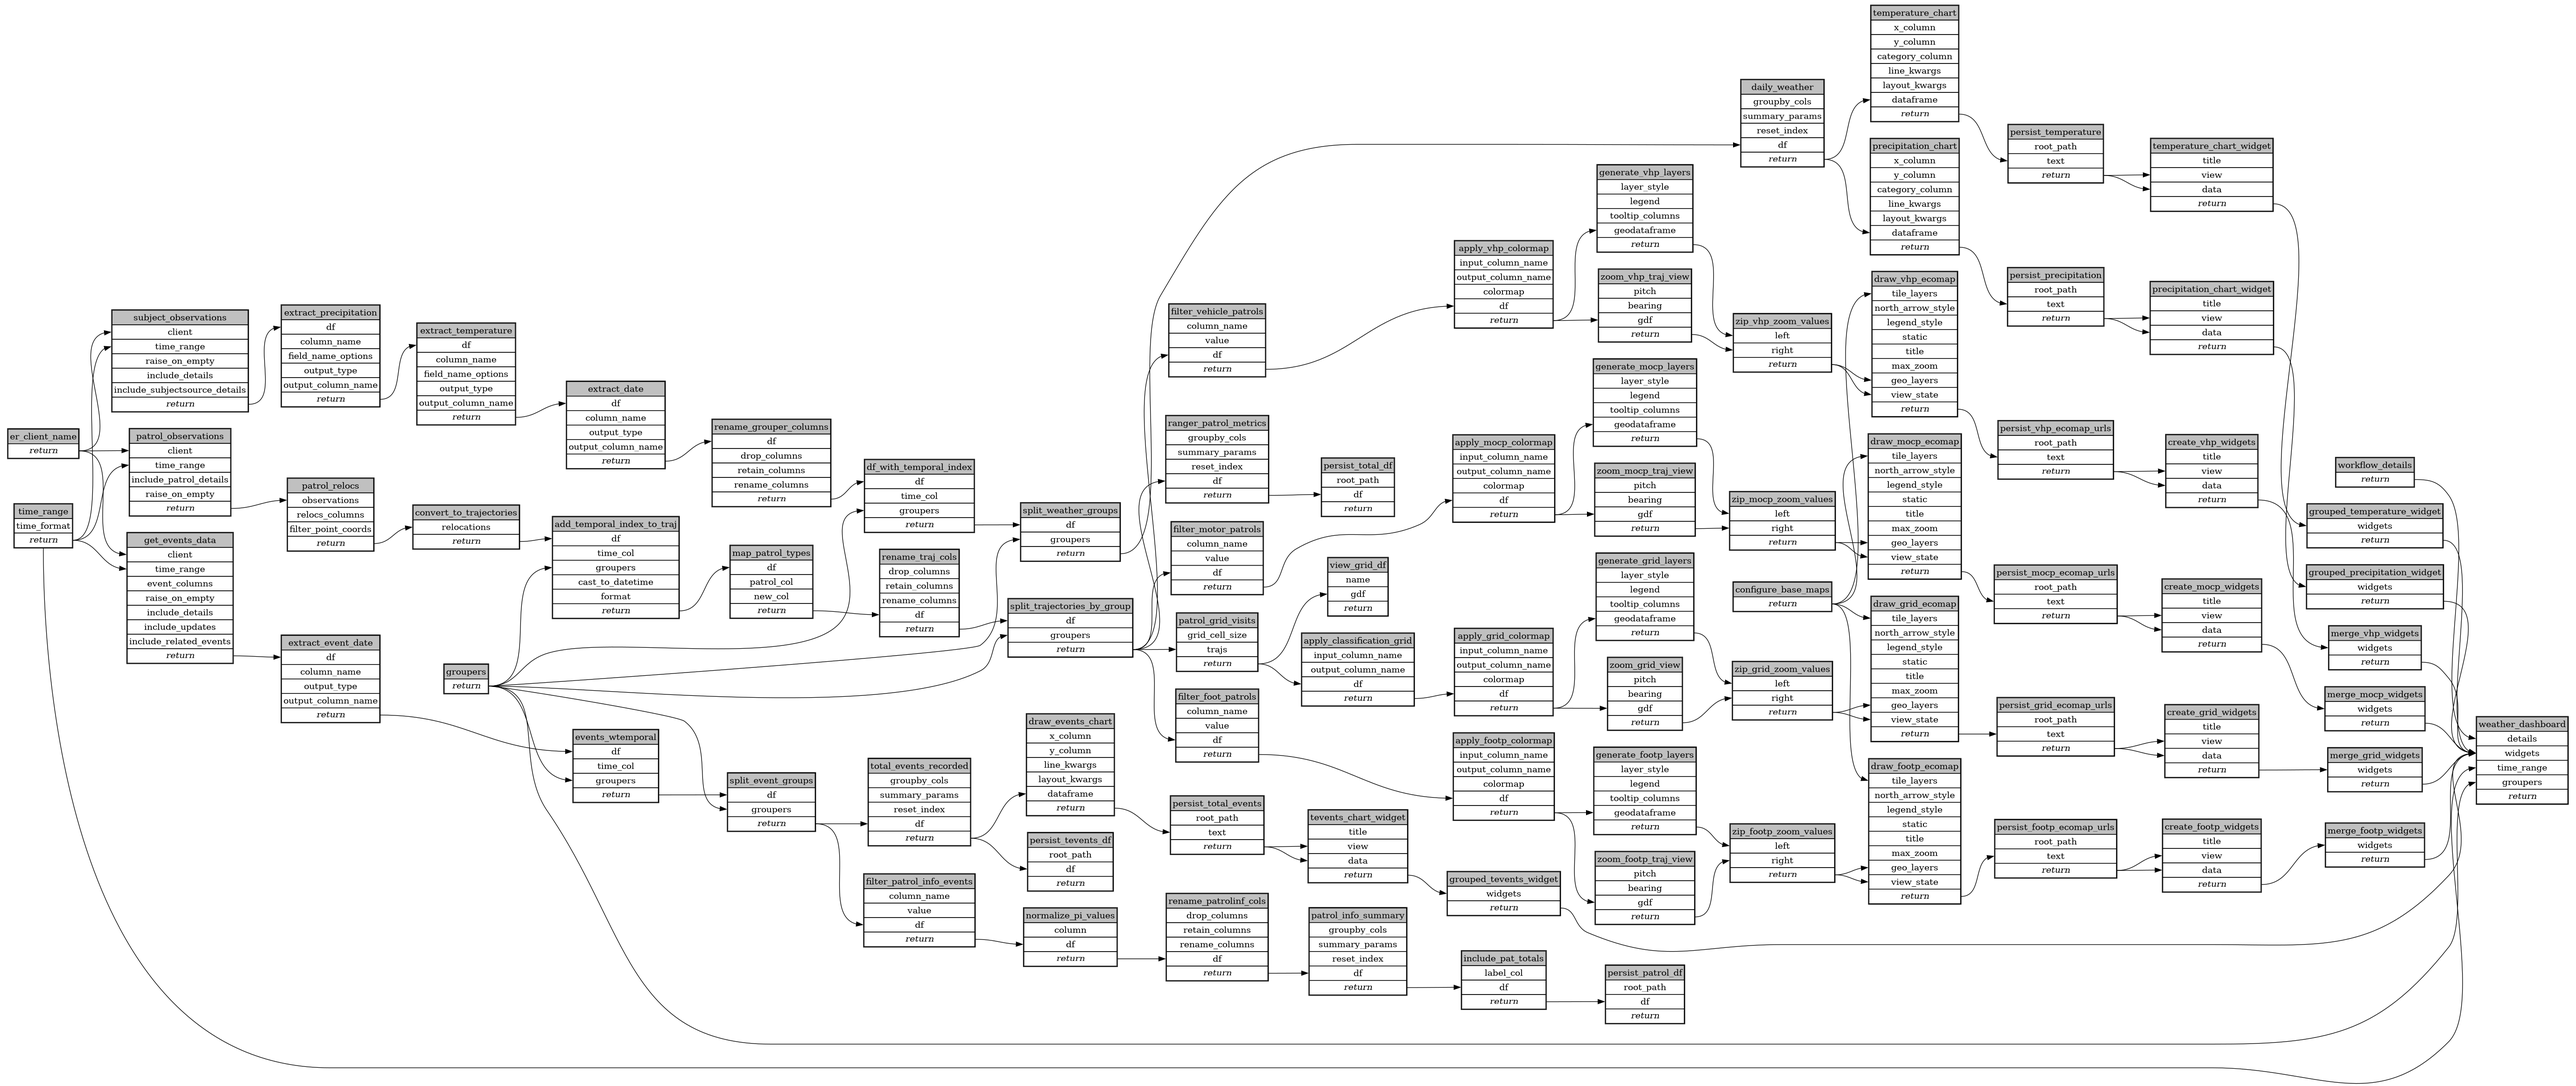
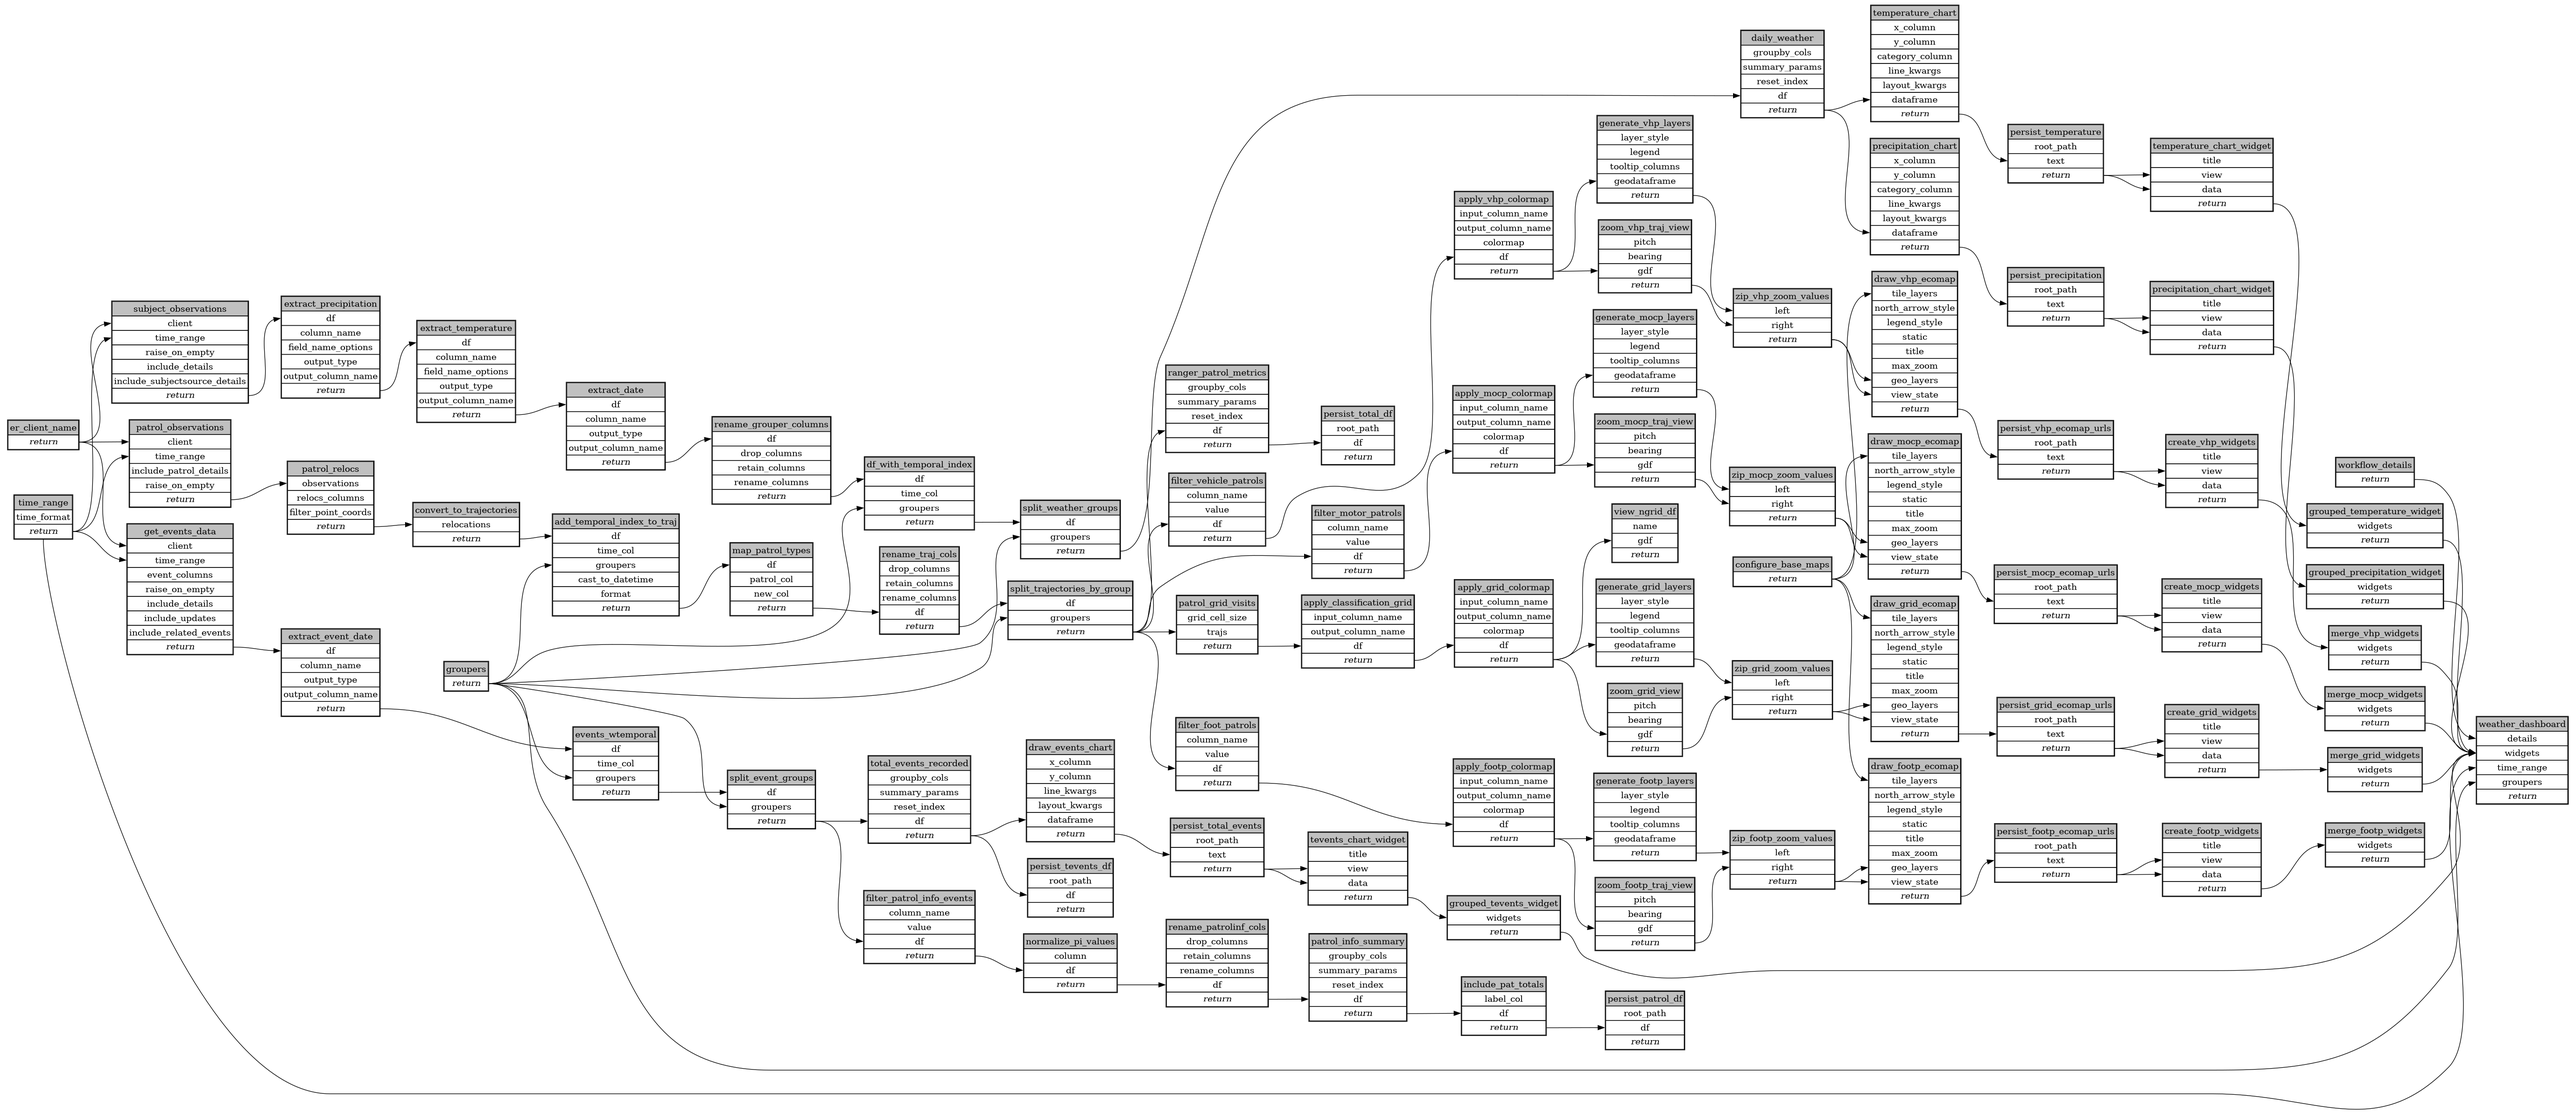
exclude missing values on generate_grid_layers spec func

Changed region(s): [[0.0, 0.0, 0.9973, 0.9592]]

diff --git a/workflows/customized_report/ecoscope-workflows-customized-report-workflow/ecoscope_workflows_customized_report_workflow/dags/run_async.py b/workflows/customized_report/ecoscope-workflows-customized-report-workflow/ecoscope_workflows_customized_report_workflow/dags/run_async.py
@@ -130,9 +130,9 @@ def main(params: Params):
         "create_mocp_widgets": ["persist_mocp_ecomap_urls"],
         "merge_mocp_widgets": ["create_mocp_widgets"],
         "patrol_grid_visits": ["split_trajectories_by_group"],
-        "view_grid_df": ["patrol_grid_visits"],
         "apply_classification_grid": ["patrol_grid_visits"],
         "apply_grid_colormap": ["apply_classification_grid"],
+        "view_ngrid_df": ["apply_grid_colormap"],
         "generate_grid_layers": ["apply_grid_colormap"],
         "zoom_grid_view": ["apply_grid_colormap"],
         "zip_grid_zoom_values": ["generate_grid_layers", "zoom_grid_view"],
@@ -1226,20 +1226,6 @@ def main(params: Params):
                 "argvalues": DependsOn("split_trajectories_by_group"),
             },
         ),
-        "view_grid_df": Node(
-            async_task=view_df.validate()
-            .handle_errors(task_instance_id="view_grid_df")
-            .set_executor("lithops"),
-            partial={
-                "name": "Patrol Grid gdf",
-            }
-            | (params_dict.get("view_grid_df") or {}),
-            method="mapvalues",
-            kwargs={
-                "argnames": ["gdf"],
-                "argvalues": DependsOn("patrol_grid_visits"),
-            },
-        ),
         "apply_classification_grid": Node(
             async_task=apply_classification.validate()
             .handle_errors(task_instance_id="apply_classification_grid")
@@ -1271,6 +1257,20 @@ def main(params: Params):
                 "argvalues": DependsOn("apply_classification_grid"),
             },
         ),
+        "view_ngrid_df": Node(
+            async_task=view_df.validate()
+            .handle_errors(task_instance_id="view_ngrid_df")
+            .set_executor("lithops"),
+            partial={
+                "name": "Patrol colormap grid",
+            }
+            | (params_dict.get("view_ngrid_df") or {}),
+            method="mapvalues",
+            kwargs={
+                "argnames": ["gdf"],
+                "argvalues": DependsOn("apply_grid_colormap"),
+            },
+        ),
         "generate_grid_layers": Node(
             async_task=create_polygon_layer.validate()
             .handle_errors(task_instance_id="generate_grid_layers")
@@ -1292,7 +1292,6 @@ def main(params: Params):
                     "density_bins",
                     "density_colormap",
                     "geometry",
-                    "patrol_id",
                     "dist_meters",
                     "timespan_seconds",
                 ],

diff --git a/workflows/customized_report/ecoscope-workflows-customized-report-workflow/ecoscope_workflows_customized_report_workflow/dags/run_async_mock_io.py b/workflows/customized_report/ecoscope-workflows-customized-report-workflow/ecoscope_workflows_customized_report_workflow/dags/run_async_mock_io.py
@@ -174,9 +174,9 @@ def main(params: Params):
         "create_mocp_widgets": ["persist_mocp_ecomap_urls"],
         "merge_mocp_widgets": ["create_mocp_widgets"],
         "patrol_grid_visits": ["split_trajectories_by_group"],
-        "view_grid_df": ["patrol_grid_visits"],
         "apply_classification_grid": ["patrol_grid_visits"],
         "apply_grid_colormap": ["apply_classification_grid"],
+        "view_ngrid_df": ["apply_grid_colormap"],
         "generate_grid_layers": ["apply_grid_colormap"],
         "zoom_grid_view": ["apply_grid_colormap"],
         "zip_grid_zoom_values": ["generate_grid_layers", "zoom_grid_view"],
@@ -1270,20 +1270,6 @@ def main(params: Params):
                 "argvalues": DependsOn("split_trajectories_by_group"),
             },
         ),
-        "view_grid_df": Node(
-            async_task=view_df.validate()
-            .handle_errors(task_instance_id="view_grid_df")
-            .set_executor("lithops"),
-            partial={
-                "name": "Patrol Grid gdf",
-            }
-            | (params_dict.get("view_grid_df") or {}),
-            method="mapvalues",
-            kwargs={
-                "argnames": ["gdf"],
-                "argvalues": DependsOn("patrol_grid_visits"),
-            },
-        ),
         "apply_classification_grid": Node(
             async_task=apply_classification.validate()
             .handle_errors(task_instance_id="apply_classification_grid")
@@ -1315,6 +1301,20 @@ def main(params: Params):
                 "argvalues": DependsOn("apply_classification_grid"),
             },
         ),
+        "view_ngrid_df": Node(
+            async_task=view_df.validate()
+            .handle_errors(task_instance_id="view_ngrid_df")
+            .set_executor("lithops"),
+            partial={
+                "name": "Patrol colormap grid",
+            }
+            | (params_dict.get("view_ngrid_df") or {}),
+            method="mapvalues",
+            kwargs={
+                "argnames": ["gdf"],
+                "argvalues": DependsOn("apply_grid_colormap"),
+            },
+        ),
         "generate_grid_layers": Node(
             async_task=create_polygon_layer.validate()
             .handle_errors(task_instance_id="generate_grid_layers")
@@ -1336,7 +1336,6 @@ def main(params: Params):
                     "density_bins",
                     "density_colormap",
                     "geometry",
-                    "patrol_id",
                     "dist_meters",
                     "timespan_seconds",
                 ],

diff --git a/workflows/customized_report/ecoscope-workflows-customized-report-workflow/ecoscope_workflows_customized_report_workflow/dags/run_sequential_mock_io.py b/workflows/customized_report/ecoscope-workflows-customized-report-workflow/ecoscope_workflows_customized_report_workflow/dags/run_sequential_mock_io.py
@@ -1013,13 +1013,6 @@ def main(params: Params):
         .mapvalues(argnames=["trajs"], argvalues=split_trajectories_by_group)
     )
 
-    view_grid_df = (
-        view_df.validate()
-        .handle_errors(task_instance_id="view_grid_df")
-        .partial(name="Patrol Grid gdf", **(params_dict.get("view_grid_df") or {}))
-        .mapvalues(argnames=["gdf"], argvalues=patrol_grid_visits)
-    )
-
     apply_classification_grid = (
         apply_classification.validate()
         .handle_errors(task_instance_id="apply_classification_grid")
@@ -1043,6 +1036,15 @@ def main(params: Params):
         .mapvalues(argnames=["df"], argvalues=apply_classification_grid)
     )
 
+    view_ngrid_df = (
+        view_df.validate()
+        .handle_errors(task_instance_id="view_ngrid_df")
+        .partial(
+            name="Patrol colormap grid", **(params_dict.get("view_ngrid_df") or {})
+        )
+        .mapvalues(argnames=["gdf"], argvalues=apply_grid_colormap)
+    )
+
     generate_grid_layers = (
         create_polygon_layer.validate()
         .handle_errors(task_instance_id="generate_grid_layers")
@@ -1060,7 +1062,6 @@ def main(params: Params):
                 "density_bins",
                 "density_colormap",
                 "geometry",
-                "patrol_id",
                 "dist_meters",
                 "timespan_seconds",
             ],

diff --git a/workflows/customized_report/ecoscope-workflows-customized-report-workflow/ecoscope_workflows_customized_report_workflow/dags/run_sequential.py b/workflows/customized_report/ecoscope-workflows-customized-report-workflow/ecoscope_workflows_customized_report_workflow/dags/run_sequential.py
@@ -969,13 +969,6 @@ def main(params: Params):
         .mapvalues(argnames=["trajs"], argvalues=split_trajectories_by_group)
     )
 
-    view_grid_df = (
-        view_df.validate()
-        .handle_errors(task_instance_id="view_grid_df")
-        .partial(name="Patrol Grid gdf", **(params_dict.get("view_grid_df") or {}))
-        .mapvalues(argnames=["gdf"], argvalues=patrol_grid_visits)
-    )
-
     apply_classification_grid = (
         apply_classification.validate()
         .handle_errors(task_instance_id="apply_classification_grid")
@@ -999,6 +992,15 @@ def main(params: Params):
         .mapvalues(argnames=["df"], argvalues=apply_classification_grid)
     )
 
+    view_ngrid_df = (
+        view_df.validate()
+        .handle_errors(task_instance_id="view_ngrid_df")
+        .partial(
+            name="Patrol colormap grid", **(params_dict.get("view_ngrid_df") or {})
+        )
+        .mapvalues(argnames=["gdf"], argvalues=apply_grid_colormap)
+    )
+
     generate_grid_layers = (
         create_polygon_layer.validate()
         .handle_errors(task_instance_id="generate_grid_layers")
@@ -1016,7 +1018,6 @@ def main(params: Params):
                 "density_bins",
                 "density_colormap",
                 "geometry",
-                "patrol_id",
                 "dist_meters",
                 "timespan_seconds",
             ],

diff --git a/workflows/customized_report/ecoscope-workflows-customized-report-workflow/ecoscope_workflows_customized_report_workflow/dags/jupytext.py b/workflows/customized_report/ecoscope-workflows-customized-report-workflow/ecoscope_workflows_customized_report_workflow/dags/jupytext.py
@@ -1779,25 +1779,6 @@ patrol_grid_visits = (
 
 
 # %% [markdown]
-# ## view patrol coverage grid df
-
-# %%
-# parameters
-
-view_grid_df_params = dict()
-
-# %%
-# call the task
-
-
-view_grid_df = (
-    view_df.handle_errors(task_instance_id="view_grid_df")
-    .partial(name="Patrol Grid gdf", **view_grid_df_params)
-    .mapvalues(argnames=["gdf"], argvalues=patrol_grid_visits)
-)
-
-
-# %% [markdown]
 # ## Apply bin classification on grids
 
 # %%
@@ -1848,6 +1829,25 @@ apply_grid_colormap = (
 
 
 # %% [markdown]
+# ## view patrol coverage grid df
+
+# %%
+# parameters
+
+view_ngrid_df_params = dict()
+
+# %%
+# call the task
+
+
+view_ngrid_df = (
+    view_df.handle_errors(task_instance_id="view_ngrid_df")
+    .partial(name="Patrol colormap grid", **view_ngrid_df_params)
+    .mapvalues(argnames=["gdf"], argvalues=apply_grid_colormap)
+)
+
+
+# %% [markdown]
 # ## Generate grid layers
 
 # %%
@@ -1875,7 +1875,6 @@ generate_grid_layers = (
             "density_bins",
             "density_colormap",
             "geometry",
-            "patrol_id",
             "dist_meters",
             "timespan_seconds",
         ],

diff --git a/src/ecoscope-workflows-ext-mnc/ecoscope_workflows_ext_mnc/tasks/_inspect.py b/src/ecoscope-workflows-ext-mnc/ecoscope_workflows_ext_mnc/tasks/_inspect.py
@@ -24,7 +24,9 @@ def view_df(gdf: Annotated[AnyDataFrame, Field(description="A GeoDataFrame to in
     print(f"Number of rows: {gdf.shape[0]}")
     print(f"Number of columns: {gdf.shape[1]}")
     #print(f"Geometry column: {gdf.geometry.name}")
-
+    
+    for col in gdf.columns:
+        print(f"column name: {col}")
     print("\n--- Column Details ---")
     for col in gdf.columns:
         dtype = gdf[col].dtype

diff --git a/workflows/customized_report/ecoscope-workflows-customized-report-workflow/README.md b/workflows/customized_report/ecoscope-workflows-customized-report-workflow/README.md
@@ -5,8 +5,8 @@
 
 ```yaml
 # fingerprint:
-artifacts_sha256_basic: b9d966ad162fd0696b9e2e53d18d29764760516aa165a62506d9a1269807915e
-artifacts_sha256_strict: 958f81984478a22a1b1d430bf425386e202329700238a2f599b651dd9ac81fe1
+artifacts_sha256_basic: 4a87e815d996ca9f18abce7a8aee18eb6bdf0a97ec3e290664b7b2fe519e8800
+artifacts_sha256_strict: 5a29fb7cfbca3dfb14e9d053fc31df948efd0b6296542db225bd81b7c1b43a6a
 installed_requirements:
 - channel: https://repo.prefix.dev/ecoscope-workflows/
   name: ecoscope-workflows-core
@@ -16,9 +16,9 @@ installed_requirements:
   version: {version: ==0.0.5}
 - channel: file:///tmp/ecoscope-workflows-custom/release/artifacts/
   name: ecoscope-workflows-ext-mnc
-  version: {version: ==10000.dev18+g7f9ebc0e2.d20251023}
+  version: {version: ==10000.dev19+g8af5a6f4.d20251023}
 params_sha256: 3aa22fd43747dcd09c1bc280c29abdeaa8ce3ed6cca01608f13bcc1da8f6af71
-spec_sha256: f0e5d996fe7b161e52b8e7093dbd54166f70dc6838a7a3f8e78897c7a11cd00f
+spec_sha256: 00e804f287b7bb07f1933f3d4761084d54cf2b7d50709fbb6c017dd421d20911
 
 ```
 
